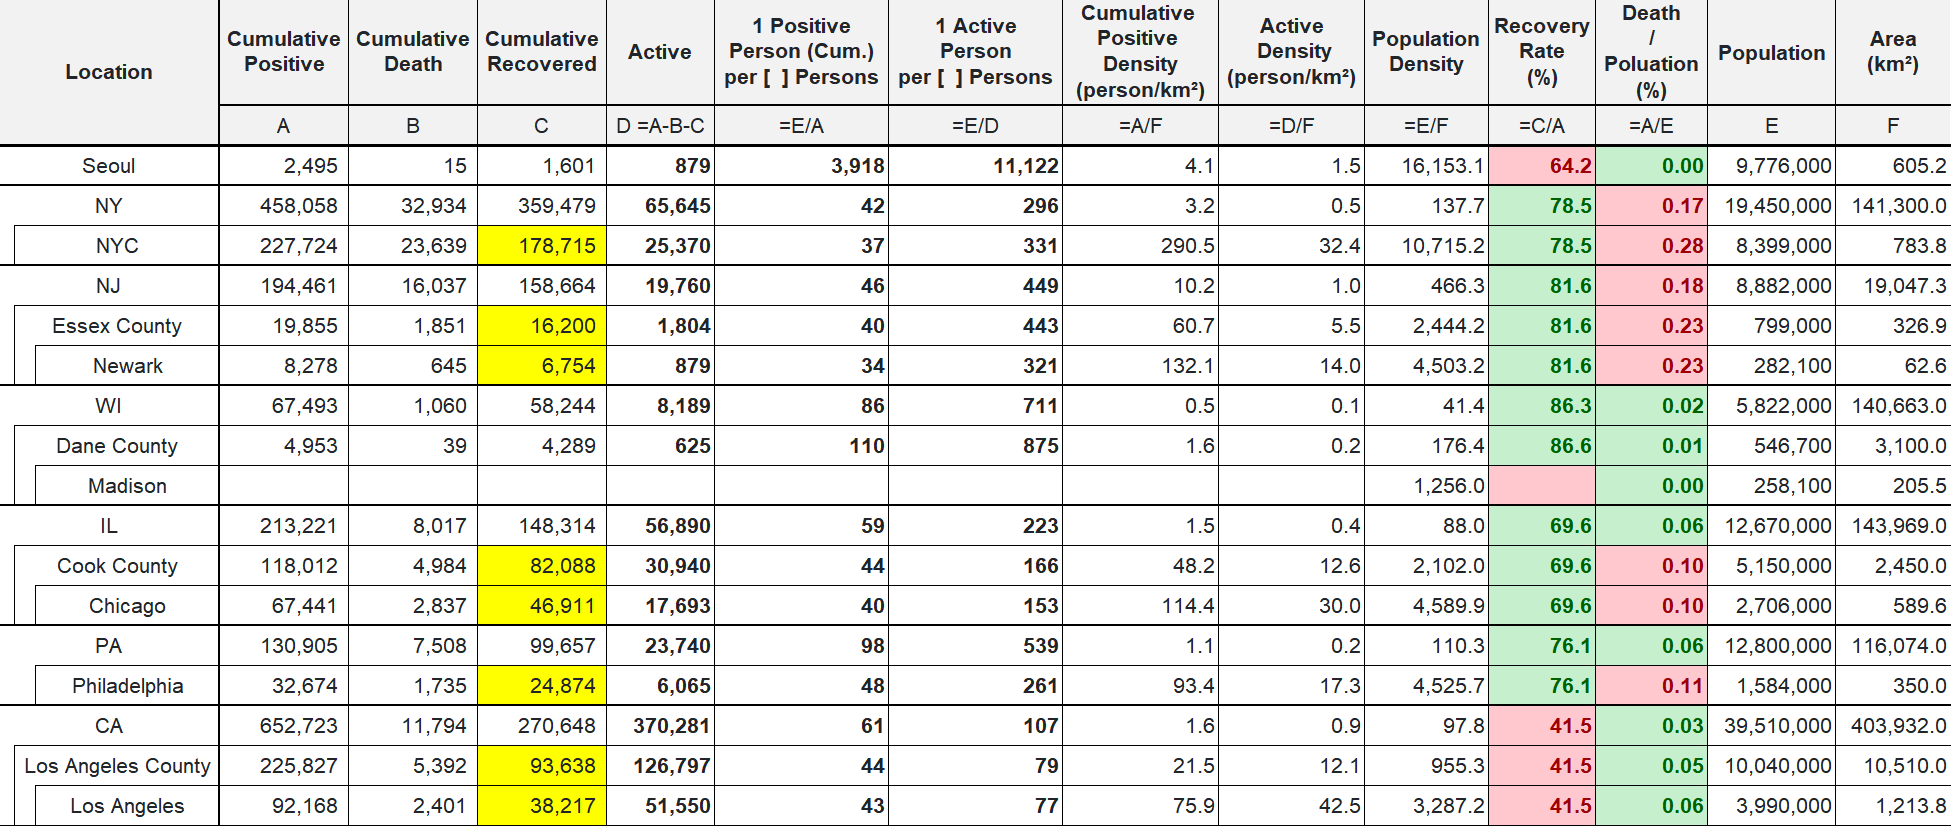
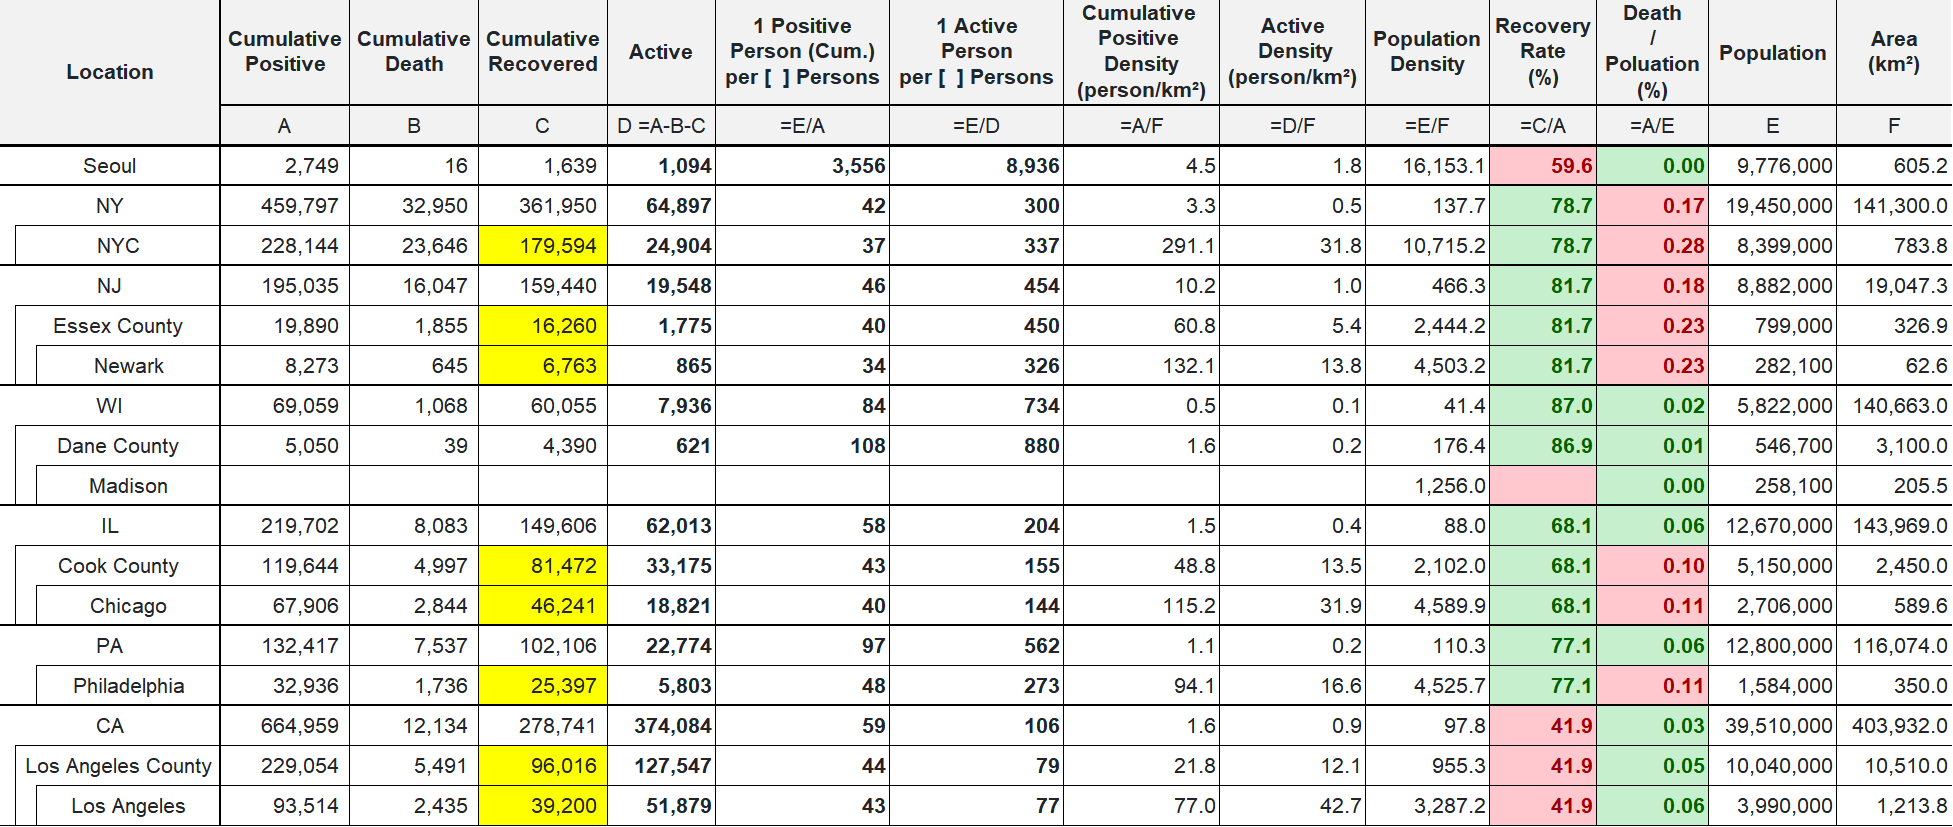
update 8/22 status

diff --git a/index.html b/index.html
@@ -19,7 +19,7 @@
 
 <body class="container-fluid">
 	<h1> CoronaV for Friends</h1>
-	<h2> Data updated at Aug 20 2020 EST 21:20</h2>
+	<h2> Data updated at Aug 22 2020 EST 21:25</h2>
 	<hr>
 	<main>
 		<div class="row">
